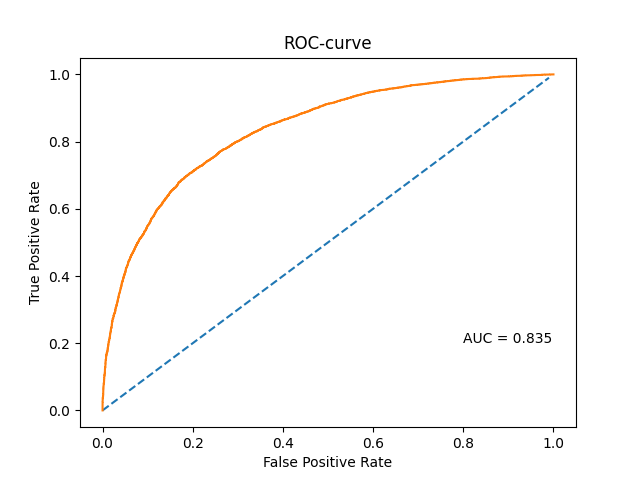
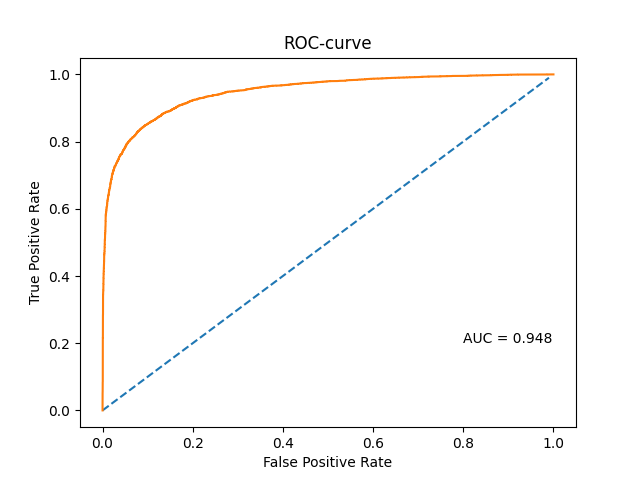
Assignment 4 updated

diff --git a/Assignment 4/Assignment-4-Group03.py b/Assignment 4/Assignment-4-Group03.py
@@ -54,12 +54,12 @@ def get_pcam_generators(base_dir, train_batch_size=32, val_batch_size=32):
                                              batch_size=val_batch_size,
                                              class_mode='binary')
 
-     #predict_gen = datagen.flow_from_directory(valid_path,
-                                            #  target_size=(IMAGE_SIZE, IMAGE_SIZE),
-                                            #  batch_size=val_batch_size,
-                                            #  class_mode='binary',shuffle=False)                                             
+     predict_gen = datagen.flow_from_directory(valid_path,
+                                             target_size=(IMAGE_SIZE, IMAGE_SIZE),
+                                             batch_size=val_batch_size,
+                                             class_mode='binary',shuffle=False)                                             
 
-     return train_gen, val_gen #, predict_gen
+     return train_gen, val_gen , predict_gen
 
 # the size of the images in the PCAM dataset
 IMAGE_SIZE = 96
@@ -70,7 +70,7 @@ input_shape = (IMAGE_SIZE, IMAGE_SIZE, 3)
 input = Input(input_shape)
 
 # get the pretrained model, cut out the top layer with imagenet weights
-pretrained = MobileNetV2(input_shape=input_shape, include_top=False, weights=None)
+pretrained = MobileNetV2(input_shape=input_shape, include_top=False, weights='imagenet')
 
 # get the pretrained model, cut out the top layer with no imagenet weigths
 #pretrained = MobileNetV2(input_shape=input_shape, include_top=False, weights=None)
@@ -82,7 +82,7 @@ pretrained = MobileNetV2(input_shape=input_shape, include_top=False, weights=Non
 
 output = pretrained(input)
 output = GlobalAveragePooling2D()(output)
-#output = Dropout(0.5)(output)
+output = Dropout(0.5)(output)
 output = Dense(1, activation='sigmoid')(output)
 
 model = Model(input, output)
@@ -94,9 +94,9 @@ model.compile(SGD(lr=0.001, momentum=0.95), loss = 'binary_crossentropy', metric
 model.summary()
 
 # get the data generators
-train_gen, val_gen = get_pcam_generators('C:\\Users\\Kirst\\Desktop\\TUe\\8P361-Project Imaging\\Project-Imaging-Group-3\\')
+#train_gen, val_gen = get_pcam_generators('C:\\Users\\Kirst\\Desktop\\TUe\\8P361-Project Imaging\\Project-Imaging-Group-3\\')
 
-#train_gen, val_gen, predict_gen = get_pcam_generators('C:\\Users\\Kirst\\Desktop\\TUe\\8P361-Project Imaging\\Project-Imaging-Group-3\\')
+train_gen, val_gen, predict_gen = get_pcam_generators('C:\\Users\\Kirst\\Desktop\\TUe\\8P361-Project Imaging\\Project-Imaging-Group-3\\')
 
 # save the model and weights
 model_name = 'my_first_transfer_model'
@@ -126,27 +126,27 @@ history = model.fit_generator(train_gen, steps_per_epoch=train_steps,
                     epochs=10,
                     callbacks=callbacks_list)
 
-# # ROC analysis
-# model.load_weights('my_first_transfer_model_weights.hdf5')
-# # Get the predictions of the model
-# predictions = model.predict(predict_gen)
-# # Plot a line from 0 to 1 with stepsize 0.01
-# line = np.arange(start=0,stop=1,step=0.01)
-# # Make the roc curve with the help of the predictions of the model
-# fpr, tpr,_ = roc_curve(predict_gen.classes,predictions)
-# # Plot the figure
-# plt.plot(line,line,'--',fpr,tpr,'-')
-# # Give the figure a title
-# plt.title('ROC-curve')
-# # Give the x-axis a label
-# plt.xlabel('False Positive Rate')
-# # Give the y-axis a label
-# plt.ylabel('True Positive Rate')
-# # Calculate the AUC
-# AUC = auc(fpr,tpr)
-# # Print the AUC in the plot
-# plt.text(0.8,0.2,f'AUC = {AUC:.3f}')
-# # Print the AUC
-# print(AUC)
-# # Show the plot
-# plt.show()
+# ROC analysis
+model.load_weights('my_first_transfer_model_weights.hdf5')
+# Get the predictions of the model
+predictions = model.predict(predict_gen)
+# Plot a line from 0 to 1 with stepsize 0.01
+line = np.arange(start=0,stop=1,step=0.01)
+# Make the roc curve with the help of the predictions of the model
+fpr, tpr,_ = roc_curve(predict_gen.classes,predictions)
+# Plot the figure
+plt.plot(line,line,'--',fpr,tpr,'-')
+# Give the figure a title
+plt.title('ROC-curve')
+# Give the x-axis a label
+plt.xlabel('False Positive Rate')
+# Give the y-axis a label
+plt.ylabel('True Positive Rate')
+# Calculate the AUC
+AUC = auc(fpr,tpr)
+# Print the AUC in the plot
+plt.text(0.8,0.2,f'AUC = {AUC:.3f}')
+# Print the AUC
+print(AUC)
+# Show the plot
+plt.show()
